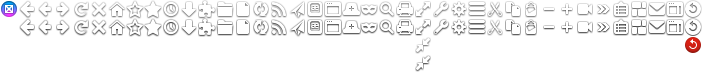
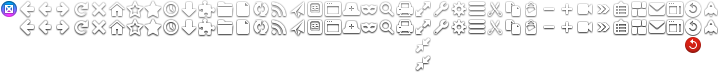
Bug 1031019: add "Apps" toolbar button that points to Marketplace, r=jared/Gijs
UltraBlame original commit: 81be82b617b954e5589c5254ee7431087f1ac55d

Changed region(s): [[0.0, 0.0, 1.0, 0.75], [0.5684, 0.7778, 0.6282, 1.0], [0.5684, 0.5278, 0.6282, 0.75]]

diff --git a/browser/themes/osx/browser.css b/browser/themes/osx/browser.css
@@ -1131,6 +1131,13 @@ toolbar .toolbarbutton-1 > .toolbarbutton-menubutton-dropmarker > .dropmarker-ic
     transform: scaleX(-1);
   }
 
+  #web-apps-button[cui-areatype="toolbar"] {
+    -moz-image-region: rect(0, 1440px, 36px, 1404px);
+  }
+
+  #web-apps-button[cui-areatype="toolbar"]:hover:active:not([disabled="true"]) {
+    -moz-image-region: rect(36px, 1440px, 72px, 1404px);
+  }
 
   :-moz-any(@primaryToolbarButtons@) > .toolbarbutton-icon,
   :-moz-any(@primaryToolbarButtons@) > .toolbarbutton-menubutton-button > .toolbarbutton-icon {
@@ -1288,6 +1295,11 @@ toolbar .toolbarbutton-1 > .toolbarbutton-menubutton-dropmarker > .dropmarker-ic
 
   #panic-button[cui-areatype="menu-panel"][panel-multiview-anchor=true] {
     -moz-image-region: rect(64px, 1792px, 128px, 1728px);
+  }
+
+  #web-apps-button[cui-areatype="menu-panel"],
+  toolbarpaletteitem[place="palette"] > #web-apps-button {
+    -moz-image-region: rect(0, 1856px, 64px, 1792px);
   }
 
   toolbaritem[sdkstylewidget="true"] > toolbarbutton {

diff --git a/browser/themes/shared/toolbarbuttons.inc.css b/browser/themes/shared/toolbarbuttons.inc.css
@@ -190,6 +190,15 @@ toolbar[brighttext] #sync-button[status="active"]:hover:active:not([disabled="tr
   transform: scaleX(-1);
 }
 
+#web-apps-button[cui-areatype="toolbar"] {
+  -moz-image-region: rect(0, 720px, 18px, 702px);
+}
+
+%ifdef XP_MACOSX
+#web-apps-button[cui-areatype="toolbar"]:hover:active:not([disabled="true"]) {
+  -moz-image-region: rect(18px, 720px, 36px, 702px);
+}
+%endif
 
 #loop-call-button > .toolbarbutton-badge-container {
   list-style-image: url(chrome://browser/skin/loop/toolbar.png);

diff --git a/browser/themes/shared/menupanel.inc.css b/browser/themes/shared/menupanel.inc.css
@@ -156,6 +156,11 @@ toolbarpaletteitem[place="palette"] > #panic-button {
   -moz-image-region: rect(32px, 896px, 64px, 864px);
 }
 
+#web-apps-button[cui-areatype="menu-panel"],
+toolbarpaletteitem[place="palette"] > #web-apps-button {
+  -moz-image-region: rect(0, 928px, 32px, 896px);
+}
+
 toolbaritem[sdkstylewidget="true"] > toolbarbutton {
   -moz-image-region: rect(0, 832px, 32px, 800px);
 }
